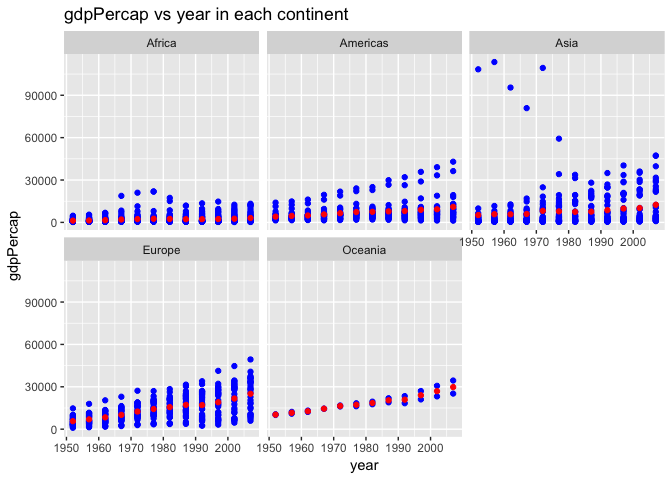
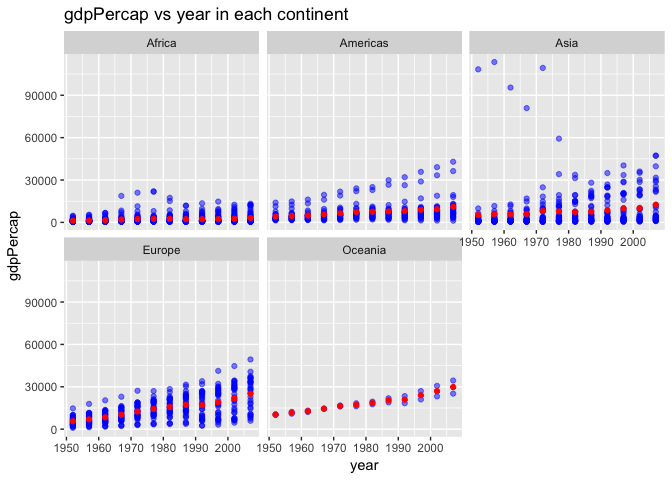
changes

diff --git a/Hw02-Explore_Gapminder_and_use_dplyr.md b/Hw02-Explore_Gapminder_and_use_dplyr.md
@@ -433,7 +433,7 @@ We want to graph gdpPercap vs year in every continent.
 
 ``` r
 ggplot(gapminder,aes(x=year,y=gdpPercap))+
-  geom_point(color="blue")+
+  geom_point(color="blue",alpha=0.5)+
   stat_summary(fun.y=mean,color="red",geom = "point")+
   facet_wrap(~continent)+
   labs(title="gdpPercap vs year in each continent")
